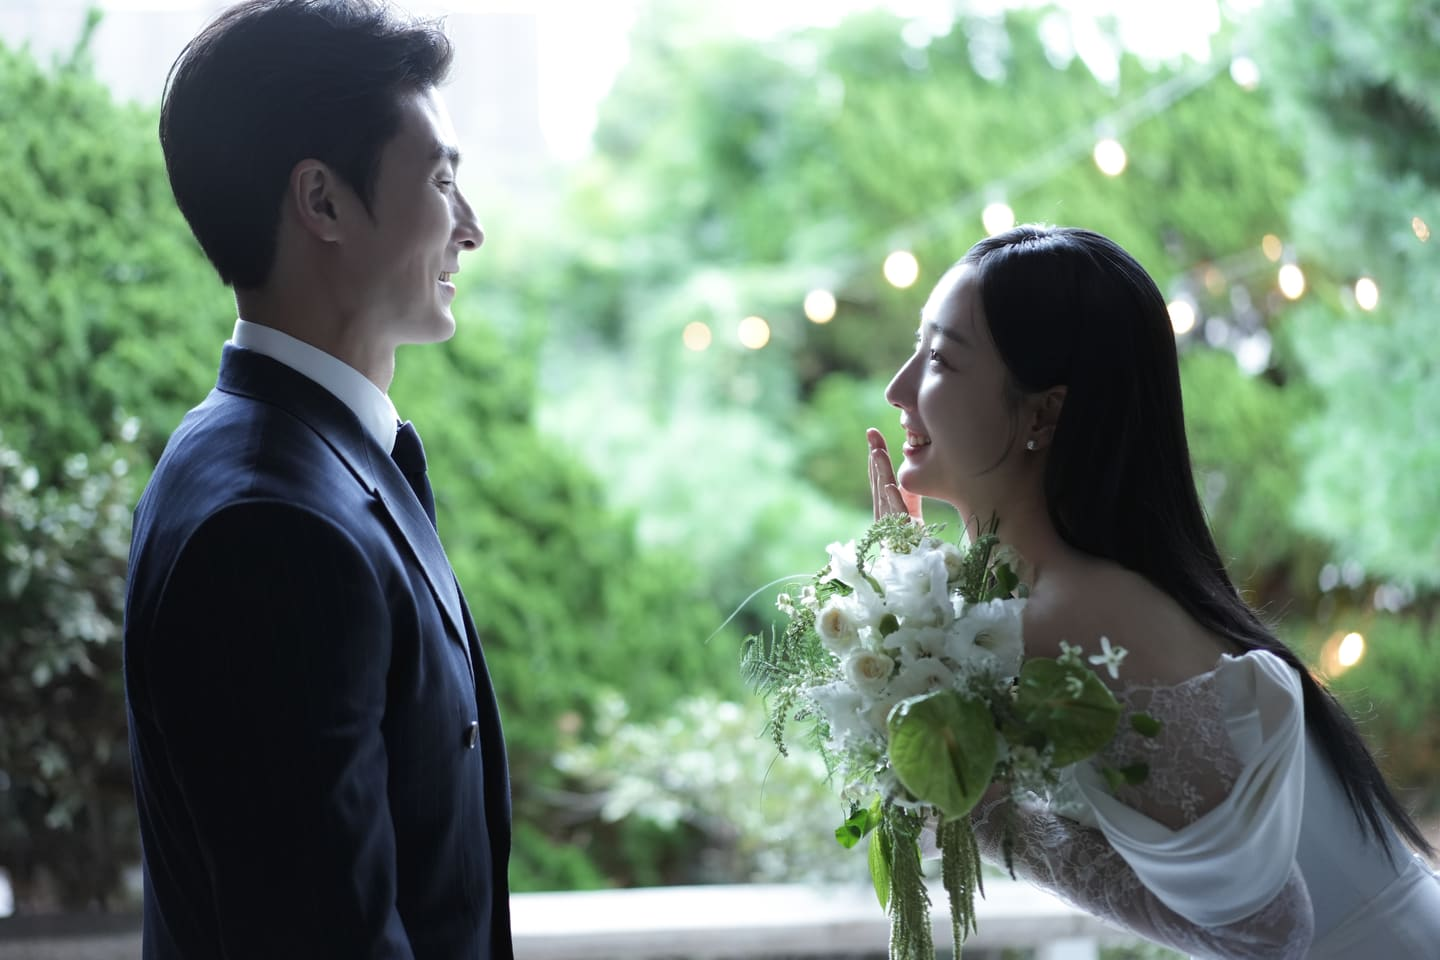
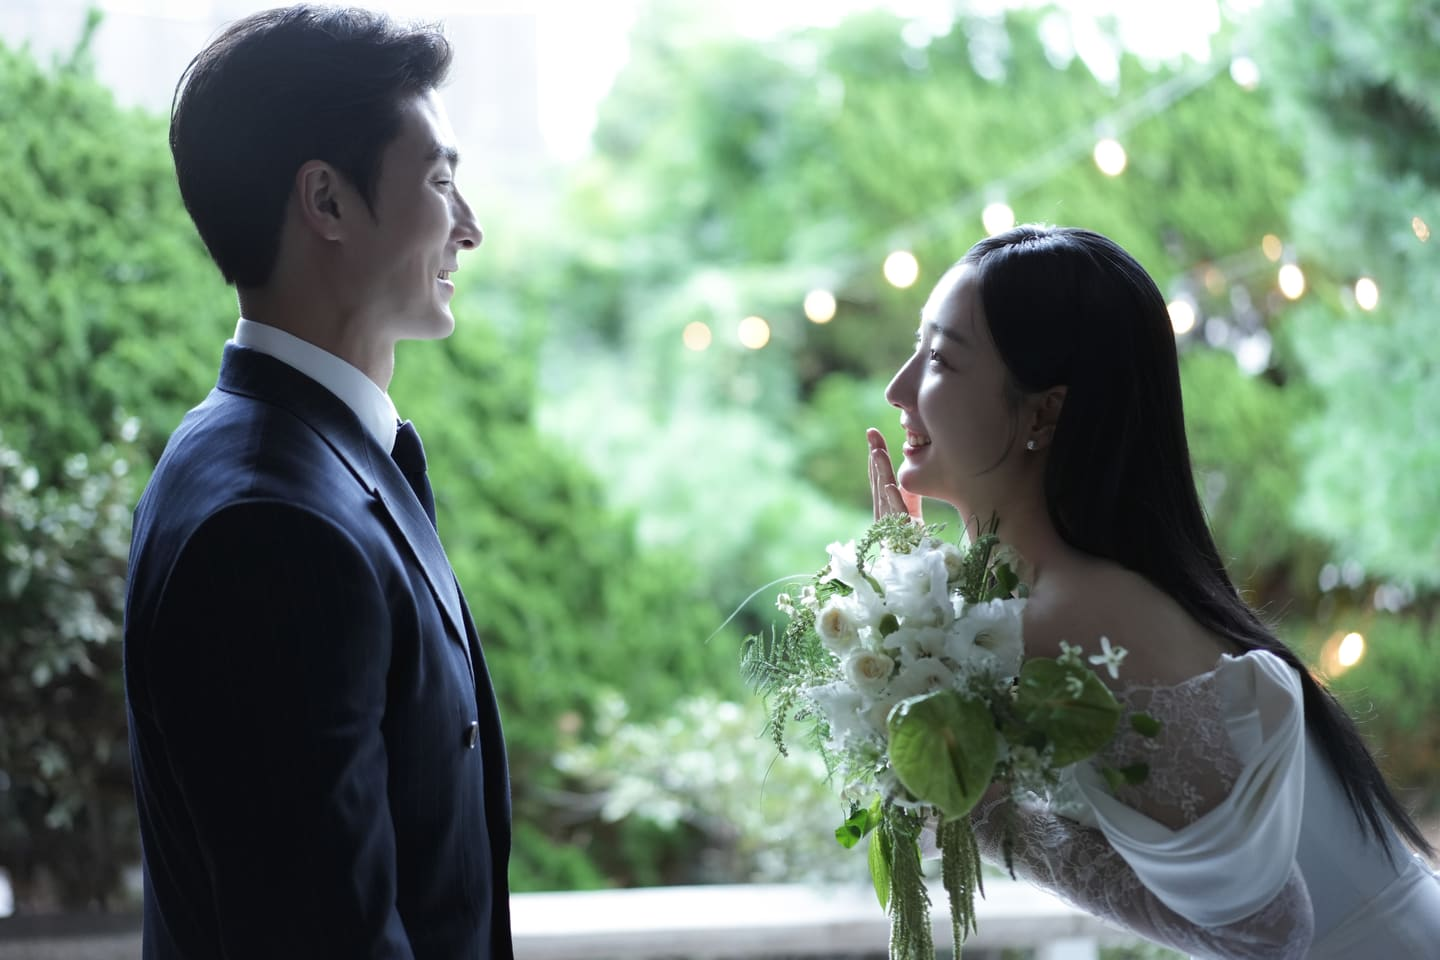
갤러리: 8번 가로 발코니 컷을 수정완료 보정본(5)으로 교체

diff --git a/index.html b/index.html
@@ -169,7 +169,7 @@
         <button type="button" class="gallery-item"><img src="./assets/img/gallery-05.jpg?v=07481be6" alt="웨딩 사진 5" loading="lazy" decoding="async"></button>
         <button type="button" class="gallery-item"><img src="./assets/img/gallery-06.jpg?v=2111c42e" alt="웨딩 사진 6" loading="lazy" decoding="async"></button>
         <button type="button" class="gallery-item"><img src="./assets/img/gallery-07.jpg?v=447e873a" alt="웨딩 사진 7" loading="lazy" decoding="async"></button>
-        <button type="button" class="gallery-item is-wide"><img src="./assets/img/gallery-08.jpg?v=10bb6409" alt="웨딩 사진 8" loading="lazy" decoding="async"></button>
+        <button type="button" class="gallery-item is-wide"><img src="./assets/img/gallery-08.jpg?v=c852753d" alt="웨딩 사진 8" loading="lazy" decoding="async"></button>
         <button type="button" class="gallery-item"><img src="./assets/img/gallery-09.jpg?v=7e25aa03" alt="웨딩 사진 9" loading="lazy" decoding="async"></button>
         <button type="button" class="gallery-item"><img src="./assets/img/gallery-10.jpg?v=7bf7cde7" alt="웨딩 사진 10" loading="lazy" decoding="async"></button>
         <button type="button" class="gallery-item"><img src="./assets/img/gallery-11.jpg?v=d5504fef" alt="웨딩 사진 11" loading="lazy" decoding="async"></button>
